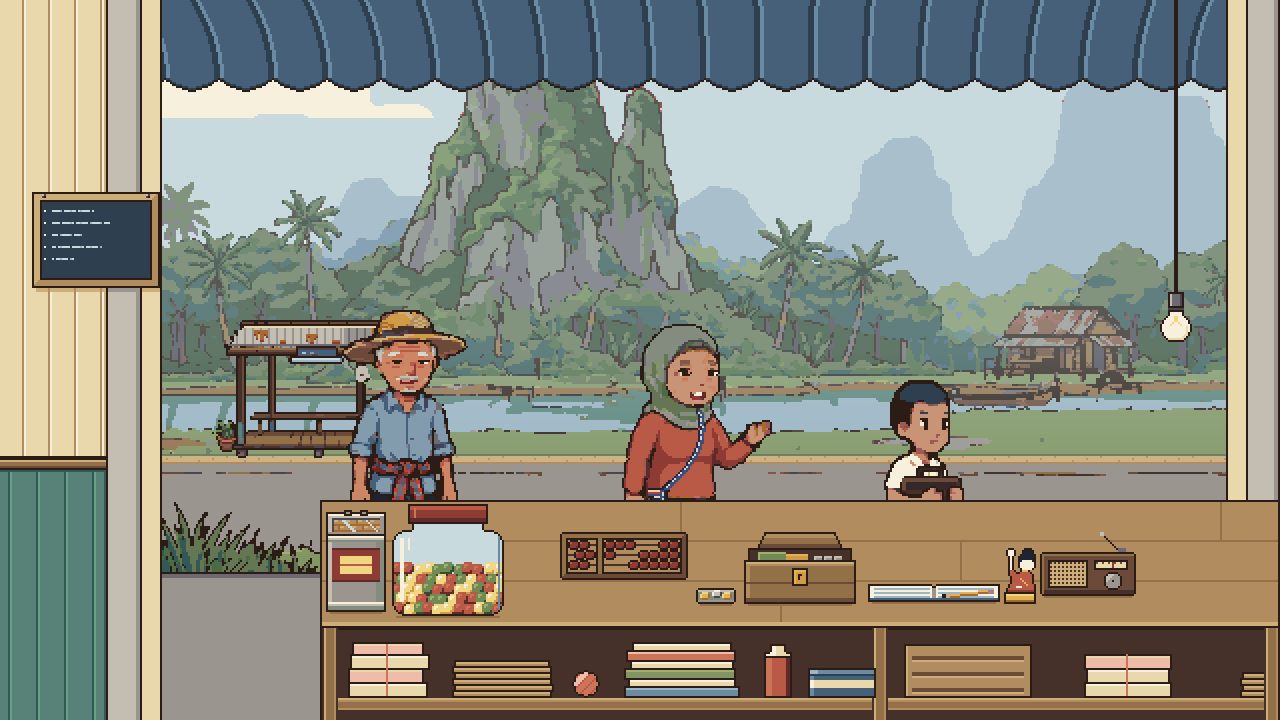
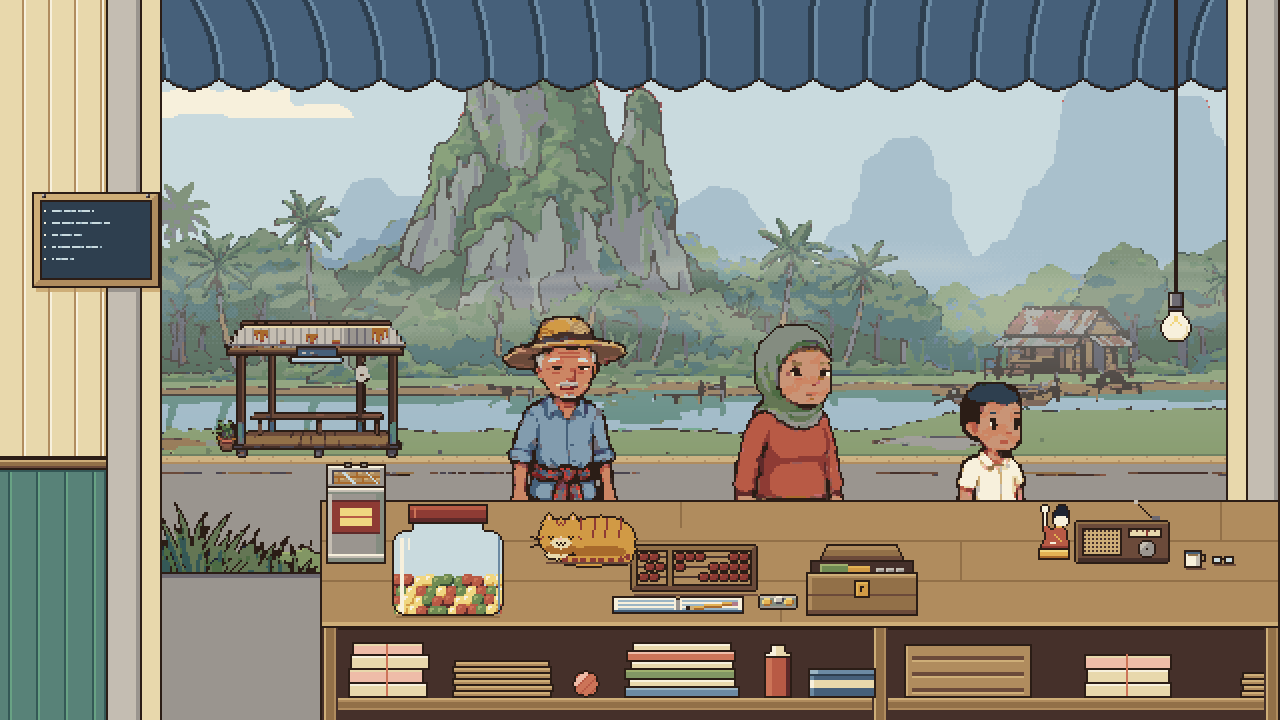
Feedback page: new pictures - Yai Boon and the shop cat, wall clock above the door and white fans, shutter over the shop opening only

diff --git a/feedback/index.html b/feedback/index.html
@@ -83,36 +83,36 @@ footer{color:var(--soft);font-size:.85rem}
 
   <h2 class="group">ในร้าน มุมหลัก (ผู้เล่นยืนหลังโต๊ะคิดเงิน)</h2>
   <figure>
-    <img src="day.png" width="1280" height="720" alt="หน้าร้านตอนกลางวัน มองจากหลังโต๊ะคิดเงินออกไปเห็นถนน คลอง และเขาหินปูน มีลูกค้าสามคนยืนหน้าโต๊ะ">
-    <figcaption><b>ภาพ 1</b> · กลางวัน ลูกค้ามายืนหน้าโต๊ะ</figcaption>
+    <img src="day.png?v=3" width="1280" height="720" alt="หน้าร้านตอนกลางวัน มองจากหลังโต๊ะคิดเงินออกไปเห็นถนน คลอง และเขาหินปูน มีลูกค้าสามคนยืนหน้าโต๊ะ แมวนอนบนโต๊ะข้างโหลลูกอม">
+    <figcaption><b>ภาพ 1</b> · กลางวัน ลูกค้ามายืนหน้าโต๊ะ แมวของร้านนอนข้างโหลลูกอม</figcaption>
   </figure>
   <figure>
-    <img src="evening.png" width="1280" height="720" loading="lazy" alt="หน้าร้านตอนเย็น ฟ้าสีส้ม น้าแก้วจอดมอเตอร์ไซค์พ่วงข้าง">
-    <figcaption><b>ภาพ 2</b> · เย็น น้าแก้วขี่มอเตอร์ไซค์พ่วงข้างมาซื้อของ</figcaption>
+    <img src="evening.png?v=3" width="1280" height="720" loading="lazy" alt="หน้าร้านตอนเย็น ฟ้าสีส้ม ไม่มีลูกค้า ยายบุญนั่งเก้าอี้เตี้ยข้างโต๊ะคิดเงิน">
+    <figcaption><b>ภาพ 2</b> · เย็น ร้านเรียบร้อย ยายบุญเจ้าของร้านนั่งอยู่ข้าง ๆ (แตะคุยได้)</figcaption>
   </figure>
   <figure>
-    <img src="night.png" width="1280" height="720" loading="lazy" alt="หน้าร้านตอนค่ำ ไฟหลอดในร้านเปิด คนกรีดยางใส่ไฟฉายคาดหัว">
+    <img src="night.png?v=3" width="1280" height="720" loading="lazy" alt="หน้าร้านตอนค่ำ ไฟหลอดในร้านเปิด คนกรีดยางใส่ไฟฉายคาดหัว">
     <figcaption><b>ภาพ 3</b> · ค่ำ ไฟในร้านเปิด คนกรีดยางใส่ไฟฉายคาดหัวแวะมา</figcaption>
   </figure>
   <figure>
-    <img src="closed.png?v=2" width="1280" height="720" loading="lazy" alt="ร้านปิด ประตูม้วนเลื่อนลงมา ไฟหลอดยังเปิด">
+    <img src="closed.png?v=3" width="1280" height="720" loading="lazy" alt="ร้านปิด ประตูม้วนเลื่อนลงมา ไฟหลอดยังเปิด">
     <figcaption><b>ภาพ 4</b> · ร้านปิด ดึงประตูม้วนลง</figcaption>
   </figure>
 
   <h2 class="group">หันซ้าย หันขวา</h2>
   <figure>
-    <img src="wall.png" width="1280" height="720" loading="lazy" alt="ผนังด้านซ้าย ประตูหลังร้าน ปฏิทิน นาฬิกา โทรศัพท์บ้าน และสมุดของยาย">
+    <img src="wall.png?v=3" width="1280" height="720" loading="lazy" alt="ผนังด้านซ้าย ประตูหลังร้านมีนาฬิกาแขวนอยู่ด้านบน พัดลมติดผนัง ปฏิทิน โทรศัพท์บ้าน และสมุดของยาย">
     <figcaption><b>ภาพ 5</b> · หันซ้าย: โทรศัพท์ไว้สั่งของ และสมุดเบอร์โทรของยาย</figcaption>
   </figure>
   <figure>
-    <div class="scroll"><img src="shelves.png" loading="lazy" width="1920" height="720" alt="ชั้นวางของในร้าน ตู้แช่ ชั้นขนม ข้าวสาร ผักผลไม้"></div>
+    <div class="scroll"><img src="shelves.png?v=3" loading="lazy" width="1920" height="720" alt="ชั้นวางของในร้าน ตู้แช่ ชั้นขนม ข้าวสาร ผักผลไม้ พัดลมติดผนัง"></div>
     <figcaption><b>ภาพ 6</b> · หันขวา: ชั้นของทั้งผนัง (ปาดดูได้)</figcaption>
   </figure>
 
   <h2 class="group">คนในหมู่บ้าน</h2>
   <figure>
-    <div class="scroll"><img src="cast.png" loading="lazy" width="1656" height="380" alt="ลูกค้าประจำ: ยายแดงกับหลาน ตาเอียด น้ารถเข็นผลไม้ น้องต้นปั่นจักรยาน น้าแก้วกับมอเตอร์ไซค์พ่วงข้าง"></div>
-    <figcaption><b>ภาพ 7</b> · ลูกค้าประจำ: ยายแดงกับหลาน · ตาเอียดคนหาปลา · น้ารถเข็นผลไม้ · น้องต้น · น้าแก้ว (ปาดดูได้)</figcaption>
+    <div class="scroll"><img src="cast.png?v=3" loading="lazy" width="1956" height="380" alt="ลูกค้าประจำ: ยายแดงกับหลาน ตาเอียด น้ารถเข็นผลไม้ น้องต้นปั่นจักรยาน น้าแก้วกับมอเตอร์ไซค์พ่วงข้าง และยายบุญเจ้าของร้านกับแมว"></div>
+    <figcaption><b>ภาพ 7</b> · ลูกค้าประจำ: ยายแดงกับหลาน · ตาเอียดคนหาปลา · น้ารถเข็นผลไม้ · น้องต้น · น้าแก้ว · และยายบุญเจ้าของร้านกับแมว (ปาดดูได้)</figcaption>
   </figure>
   <figure>
     <img src="walkins.png" width="1176" height="1020" loading="lazy" alt="ขาจรทุกแบบ: ผู้หญิงคลุมผม ผู้ชายวัยทำงาน ตาแก่ วัยรุ่น นักเรียนหญิง นักเรียนชาย พร้อมหมวกและกระเป๋าแบบต่าง ๆ">
